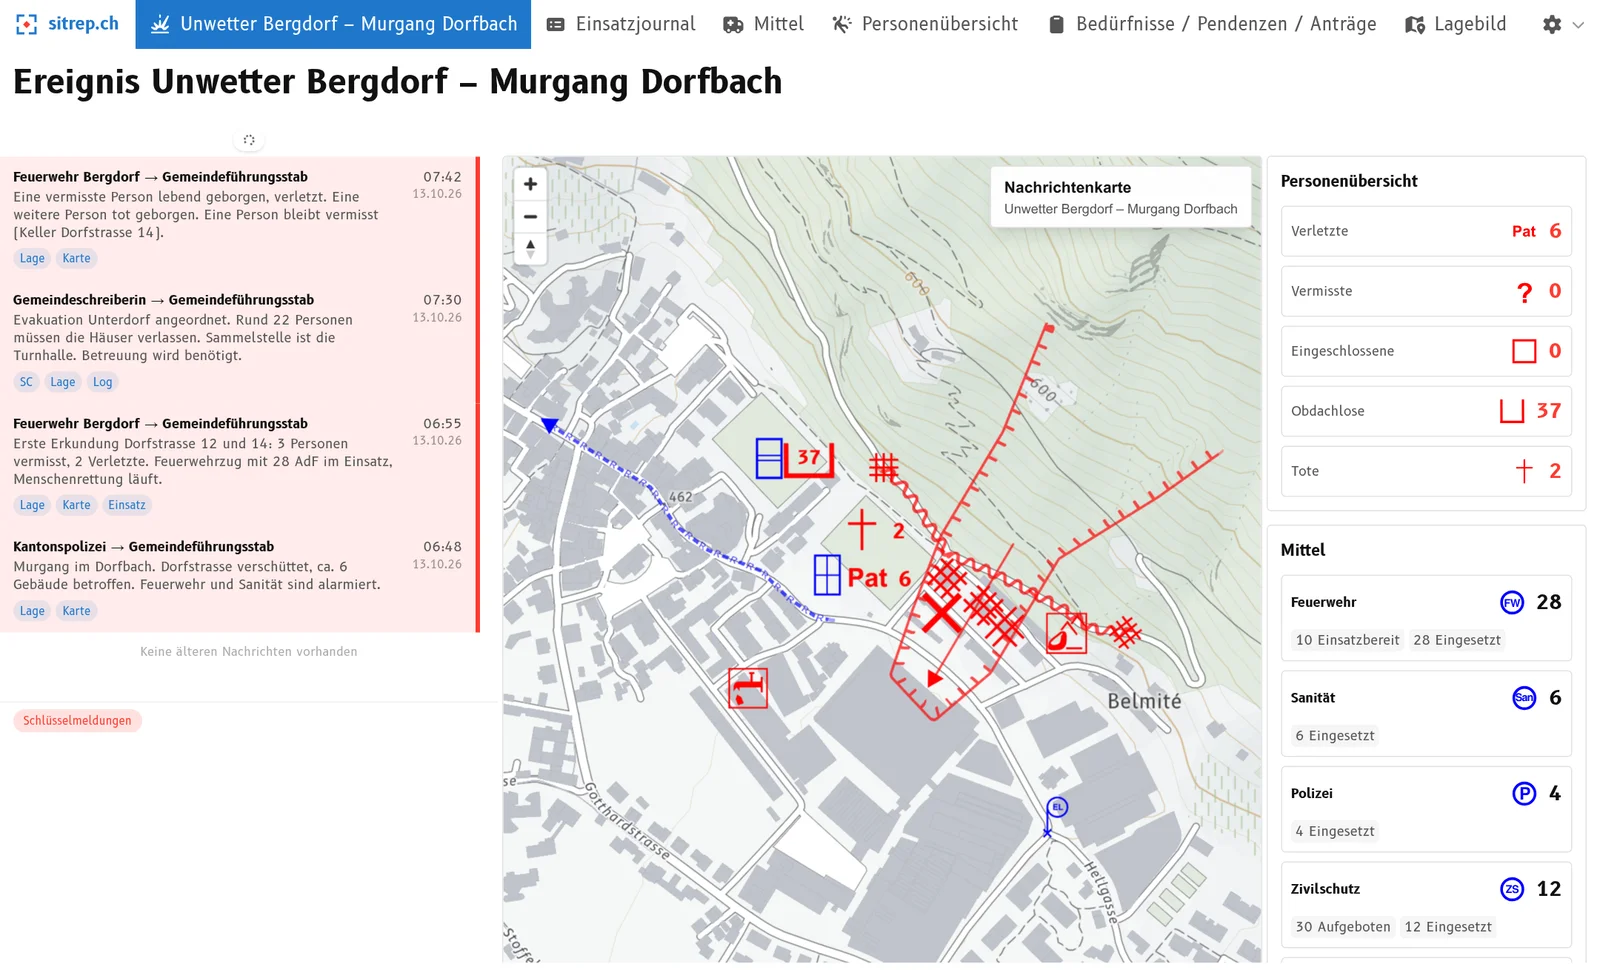
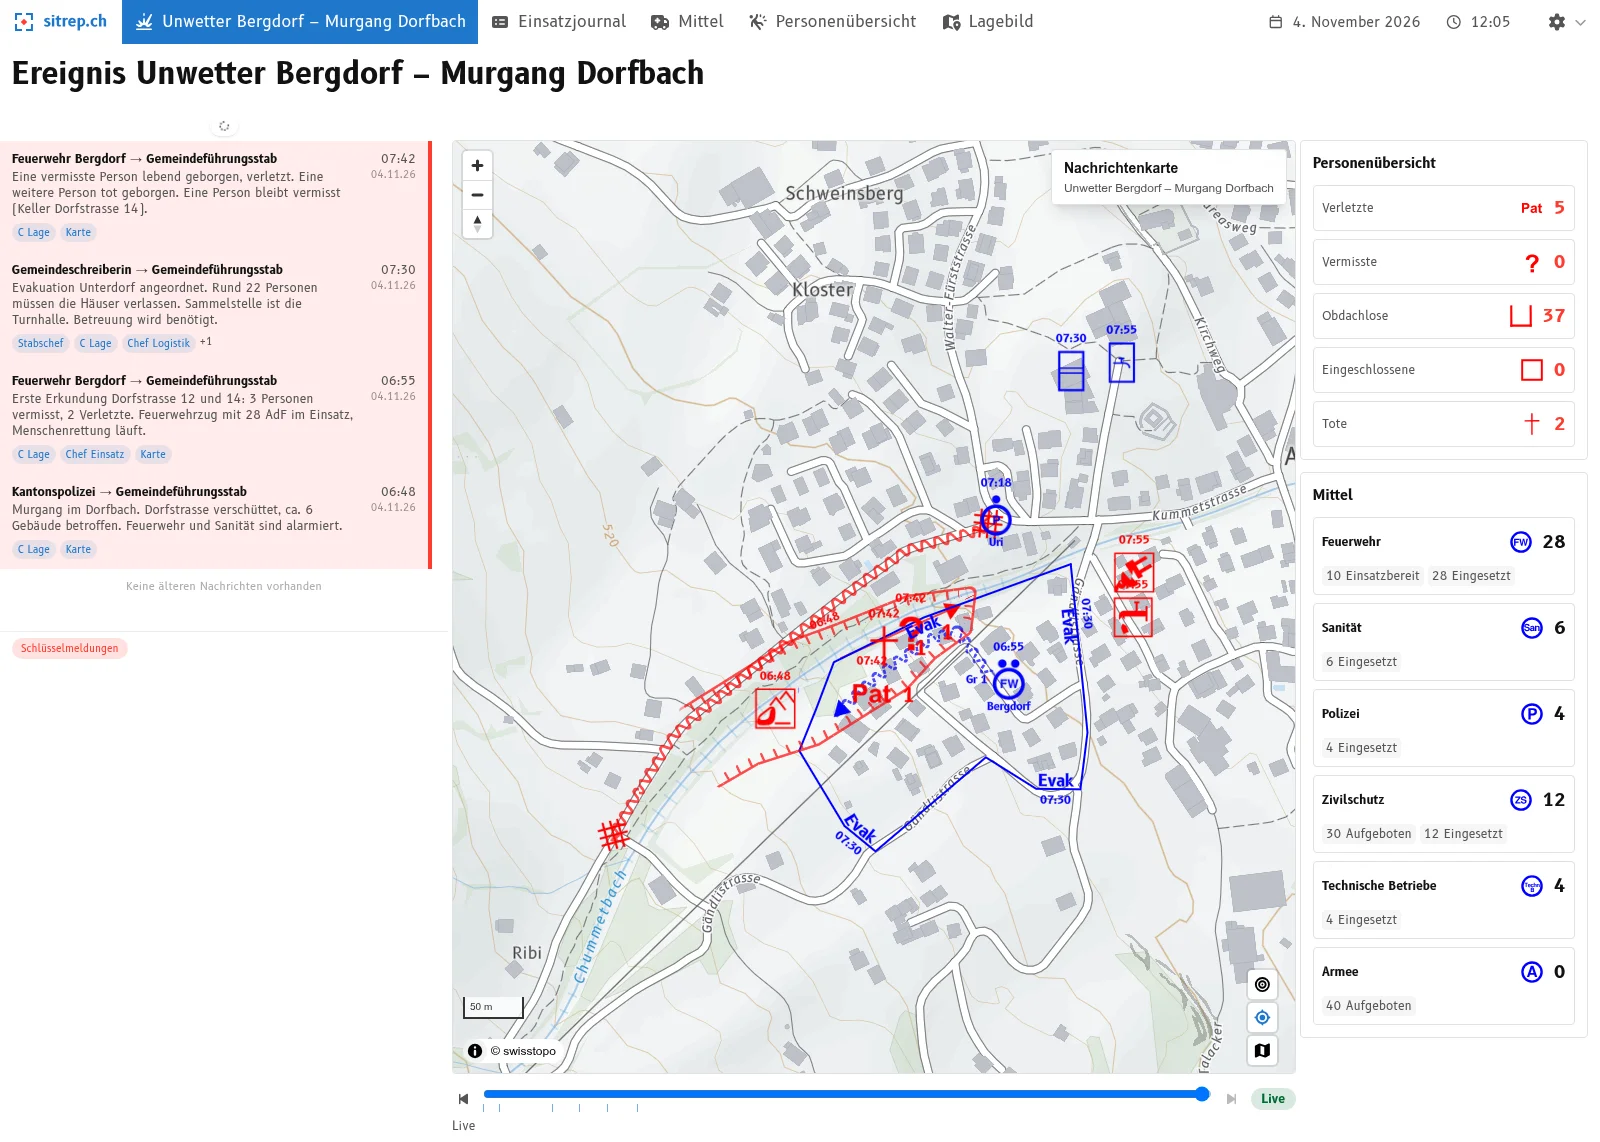
feat(content): update the triage article for the four-step triage
The Schadenplatz step is gone from the triage. Describe four steps, add an example for the
Personen step and replace the screenshots (German UI, without tasks and review).

diff --git a/content/blog/2026-10-triage-personen-mittelubersicht/index.md b/content/blog/2026-10-triage-personen-mittelubersicht/index.md
@@ -16,13 +16,15 @@ Jetzt zählt jede Minute. Der Stab braucht Antworten:
 
 Die Antworten stecken irgendwo in den Meldungen der letzten Stunden. Jemand blättert im Einsatzjournal, jemand anderes zählt auf einem Zettel zusammen. Das kostet Zeit, und es schleichen sich Fehler ein: eine Meldung doppelt gezählt, eine vergessen, ein Zwischenstand veraltet.
 
-Dabei wurde jede dieser Meldungen schon einmal gelesen und beurteilt: in der Triage. Genau dort setzt die neue Triage-Ansicht in sitrep an, der Software für die Führungsunterstützung. Wer eine Meldung triagiert, führt Personen- und Mittelübersicht gleich mit. Wenn die Anfrage kommt, lässt sich die Antwort vom Bildschirm ablesen.
+Dabei wurde jede dieser Meldungen schon einmal gelesen und beurteilt: in der Triage. Genau dort setzt die neue Triage-Ansicht in [sitrep]({{< relref "/funktionen" >}}) an, der Open-Source-Software für die Führungsunterstützung im Bevölkerungsschutz. Wer eine Meldung triagiert, erfasst nur, was die Meldung Neues sagt: «ein Vermisster weniger, ein Verletzter mehr», «Zug aufgeboten», «Gruppe eingesetzt». Personen- und Mittelübersicht ergeben sich daraus von selbst. Wenn die Anfrage kommt, lässt sich die Antwort vom Bildschirm ablesen.
+
+Die neue Triage-Ansicht testen aktuell ausgewählte Organisationen in einer **geschlossenen Vorabversion**. Im November steht sie allen sitrep-Nutzenden zur Verfügung.
 
 In diesem Artikel zeigen wir, wie das funktioniert und warum die Triage der richtige Ort dafür ist. Sie erfahren auch, warum das keinen Zusatzaufwand bedeutet.
 
 ## Was der Führungsbehelf dazu sagt
 
-Der Führungsbehelf «Handbuch Führungsunterstützung – Lage» legt den Weg der Meldung klar fest:
+Der BABS-Behelf «Behelf Einsatz Lage» legt den Weg der Meldung klar fest:
 
 - Die **Triage** ist die Stelle, an der Meldungen in den Lageverarbeitungszyklus eintreten. Dort werden alle Meldungen gesichtet, priorisiert und an die richtigen Stellen weitergeleitet. Beim Triagieren wird auch festgelegt, welche Inhalte in welchen Produkten erfasst werden.
 - Die **Mittelübersicht** gehört zu den Standardprodukten im Sachbereich Lage. Sie ist der tabellarische Überblick über alle Einsatzmittel: auf Pikett gestellt, aufgeboten, einsatzbereit, eingesetzt oder zur Ablösung vorgesehen.
@@ -38,7 +40,7 @@ Man könnte die Übersichten auch «bei Bedarf» nachführen, zum Beispiel jede 
 Die Person in der Triage hat die Meldung vor sich. Sie weiss, was gemeint ist, und kann bei Unklarheiten sofort nachfragen. Eine Stunde später muss jemand die Meldung erneut lesen und deuten.
 
 **2. Nachzählen ist fehleranfällig.**
-Wer alle Meldungen periodisch zusammenzählt, muss jede Meldung nochmals anfassen. Das ist die perfekte Gelegenheit für Doppelzählungen und Vergessenes. Wer jede Änderung genau einmal erfasst, zählt automatisch richtig.
+Wer alle Meldungen periodisch zusammenzählt, muss jede Meldung nochmals anfassen. So entstehen Doppelzählungen, und Meldungen gehen vergessen. Wer jede Änderung genau einmal erfasst, zählt automatisch richtig.
 
 **3. Alle arbeiten mit denselben Zahlen.**
 Der Behelf verlangt, dass sich Textprodukte und Grafikprodukte nicht widersprechen. Das geht nur, wenn es eine gemeinsame Quelle gibt. In sitrep sind Dashboard, Personenübersicht und Mittelübersicht immer aus denselben Triage-Eingaben berechnet.
@@ -48,9 +50,9 @@ Wenn der Stab fragt «Woher kommen die 37 Obdachlosen?», lässt sich das zur Me
 
 Kurz: **Die Information wird einmal erfasst, am richtigen Ort im Prozess, und steht danach in allen Übersichten bereit.**
 
-## Die neue Triage in fünf Schritten
+## Die neue Triage in vier Schritten
 
-Bisher wurden Meldungen mit Schaltflächen direkt bei der Meldung triagiert. Die neue Triage-Ansicht ist eine eigene Ansicht und führt durch fünf Schritte. Das Beispiel ist ein fiktives Ereignis: ein Murgang im Dorf «Bergdorf» nach einem Unwetter.
+Die Triage-Ansicht führt durch vier Schritte. Das Beispiel ist ein fiktives Ereignis: ein Murgang im Dorf «Bergdorf» nach einem Unwetter. Alle Namen und Zahlen auf den Bildern sind erfunden.
 
 ### 1. Meldung prüfen
 
@@ -64,21 +66,15 @@ Hier wird entschieden, wer die Meldung erhalten muss: Chef Einsatz, Nachrichtenk
 
 ![Schritt 2: Meldefluss festlegen](images/triage-2-meldefluss.webp)
 
-### 3. Schadenplatz wählen
-
-Betrifft die Meldung einen bestimmten Schadenplatz? Falls ja, wird er hier gewählt, oder direkt ein neuer angelegt. Alle Zahlen im nächsten Schritt werden diesem Schadenplatz zugeordnet.
-
-![Schritt 3: Schadenplatz wählen](images/triage-3-schadenplatz.webp)
-
-### 4. Personen erfassen
+### 3. Personen erfassen
 
 Hier werden die Personenzahlen erfasst, in den fünf Kategorien Verletzte, Vermisste, Eingeschlossene, Obdachlose und Tote.
 
-Wichtig: Man erfasst nur das, **was die Meldung Neues sagt**. Wenn eine vermisste Person gefunden wird, steht bei Vermissten «−1» und bei Verletzten oder Toten «+1». sitrep rechnet die Gesamtzahl selbst nach und verhindert, dass ein Wert unter null fällt. Rechts ist sofort die Wirkung der Eingabe zu sehen.
+Wichtig: Man erfasst nur das, **was die Meldung Neues sagt**. Meldet die Sanität drei weitere Leichtverletzte, steht bei Verletzten «+3». Wurde eine zuvor vermisste Person gefunden und ist verletzt, erfasst man bei Vermissten «−1» und bei Verletzten «+1». Rechts ist sofort die Wirkung auf die Personenübersicht zu sehen.
 
-![Schritt 4: Personen erfassen, mit Vorschau der Personenübersicht](images/triage-4-personen.webp)
+![Schritt 3: Personen erfassen, mit Vorschau der Personenübersicht](images/triage-3-personen.webp)
 
-### 5. Mittel aufbieten und disponieren
+### 4. Mittel aufbieten und disponieren
 
 Meldungen betreffen oft Einsatzmittel. Hier wird festgehalten, was mit ihnen passiert ist. Jede Änderung wird mit der **Zeit der Meldung** in der Mitteltabelle festgehalten. Ein Einsatzmittel durchläuft dabei diese Stationen:
 
@@ -91,15 +87,9 @@ Die vier wichtigsten Aktionen:
 - **Disponieren und einsetzen:** Das Mittel erhält Auftrag (Hauptaufgabe) und Einsatzort und wird eingesetzt. Beides ist Pflicht, damit die Mitteltabelle nie ein Mittel im Einsatz ohne Auftrag zeigt.
 - **Ablösen:** Ein anderes Mittel übernimmt. Auftrag und Einsatzort gehen automatisch an die Ablösung. Das abgelöste Mittel bleibt mit seiner Einsatzgeschichte in der Übersicht.
 
-Weitere Aktionen für den Alltag im Einsatz:
+Dazu kommen die Aktionen für den Alltag im Einsatz: umdisponieren, Einsatz abschliessen, entlassen, bei mehrtägigen Einsätzen reaktivieren und die Erreichbarkeit (Funkkanal, Telefon) pflegen.
 
-- **Umdisponieren:** Hauptaufgabe, Einsatzort oder Schadenplatz eines Mittels werden angepasst.
-- **Einsatz abgeschlossen:** Das Mittel kommt aus dem Einsatz zurück und ist wieder einsatzbereit.
-- **Entlassen:** Das Mittel wird aus dem Einsatz entlassen und gilt als abgelöst.
-- **Reaktivieren:** Bei mehrtägigen Einsätzen kommt ein abgelöstes Mittel am nächsten Tag wieder in den Dienst.
-- **Erreichbarkeit pflegen:** Funkkanal oder Telefonnummer lassen sich anpassen.
-
-![Schritt 5: Neues Mittel aufbieten](images/triage-5-mittel-aufbieten.webp)
+![Schritt 4: Neues Mittel aufbieten](images/triage-4-mittel-aufbieten.webp)
 
 Mit «Triage abschliessen» wird alles in einem Zug gespeichert.
 
@@ -107,19 +97,19 @@ Mit «Triage abschliessen» wird alles in einem Zug gespeichert.
 
 Digitale Lageverarbeitung darf kein Zusatzaufwand sein. Niemand soll Informationen, die die Führungsunterstützung ohnehin verarbeitet, ein zweites Mal in ein digitales Tool übertragen müssen. Sie muss ein fester Bestandteil des Verarbeitungsprozesses sein: Die Arbeit im Tool ist die Arbeit im Prozess.
 
-Genau so ist die Triage-Ansicht aufgebaut. Sie führt durch die Schritte, die der Führungsbehelf für die Triage vorsieht: Meldung prüfen, Meldefluss festlegen, Schadenplatz zuordnen, Personen und Mittel erfassen. Was in der Triage entschieden wird, ist gleichzeitig der Eintrag in den Übersichten. Es gibt keine zweite Erfassung.
+Genau so ist die Triage-Ansicht aufgebaut. Sie führt durch die Schritte, die der Führungsbehelf für die Triage vorsieht: Meldung prüfen, Meldefluss festlegen, Personen und Mittel erfassen. Was in der Triage entschieden wird, ist gleichzeitig der Eintrag in den Übersichten. Es gibt keine zweite Erfassung.
 
-Das hilft einem Stab und der Führungsunterstützung auch unter Zeitdruck, sich an die richtigen Abläufe zu halten. In den Schritten 3 bis 5 muss nur etwas erfasst werden, wenn die Meldung einen Schadenplatz, Personen oder Einsatzmittel betrifft. Sonst geht es mit «Weiter» zügig durch.
+So bleibt auch unter Zeitdruck der richtige Ablauf erhalten. In den Schritten 3 und 4 muss nur etwas erfasst werden, wenn die Meldung Personen oder Einsatzmittel betrifft. Sonst geht es mit «Weiter» zügig durch.
 
 ## Das Ergebnis: Übersichten, die dem aktuellen Triagestand entsprechen
 
-Zurück zum Beispiel aus der Einleitung: Der Kanton verlangt um 08:45 eine Lagemeldung mit Personen- und Mittelübersicht. Im Ereignis «Murgang in Bergdorf» sind die bisherigen Meldungen triagiert. Die Antwort an den Kanton ist darum keine Rechenaufgabe mehr: Die Informationen lassen sich jederzeit triageaktuell aus der Personenübersicht und der Mittelübersicht ablesen.
+Zurück zum Beispiel aus der Einleitung: Der Kanton verlangt um 08:45 eine Lagemeldung mit Personen- und Mittelübersicht. Im Ereignis «Murgang in Bergdorf» sind die bisherigen Meldungen triagiert. Die Antwort an den Kanton ist darum keine Rechenaufgabe mehr: Die Informationen lassen sich jederzeit auf dem Stand der letzten Triage aus der Personenübersicht und der Mittelübersicht ablesen.
 
 ### Personenübersicht
 
-Die Personenübersicht zeigt die Gesamtzahlen und die Aufteilung nach Schadenplätzen. Sie entspricht jederzeit dem aktuellen Triagestand, ohne dass jemand etwas zusammenzählen muss.
+Die Personenübersicht zeigt die Gesamtzahlen der fünf Kategorien. Sie entspricht jederzeit dem aktuellen Triagestand, ohne dass jemand etwas zusammenzählen muss.
 
-![Personenübersicht mit Aufteilung nach Schadenplätzen](images/personenubersicht.webp)
+![Personenübersicht mit den Gesamtzahlen der fünf Kategorien](images/personenubersicht.webp)
 
 ### Mittelübersicht
 
@@ -162,4 +152,4 @@ Ob mit Zettel, Tabelle oder einem anderen Tool: Prüfen Sie es in Ihrer nächste
 
 Wenn Ihnen diese Fragen bekannt vorkommen, probieren Sie sitrep direkt selbst aus: [demo.sitrep.ch](https://demo.sitrep.ch). Oder wir zeigen Ihnen gerne, wie sitrep damit umgeht, an einem Beispielereignis oder in Ihrer nächsten Übung. Schreiben Sie uns an [info@sitrep.ch](mailto:info@sitrep.ch).
 
-Die neue Triage-Ansicht mit Personen- und Mittelübersicht testen aktuell ausgewählte Organisationen in einer **geschlossenen Vorabversion**. Wir rechnen damit, dass sie **Anfang November** für alle sitrep-Nutzenden verfügbar ist.
+Die Triage-Ansicht ist aktuell eine **Vorabversion** und im November für alle sitrep-Nutzenden verfügbar.
